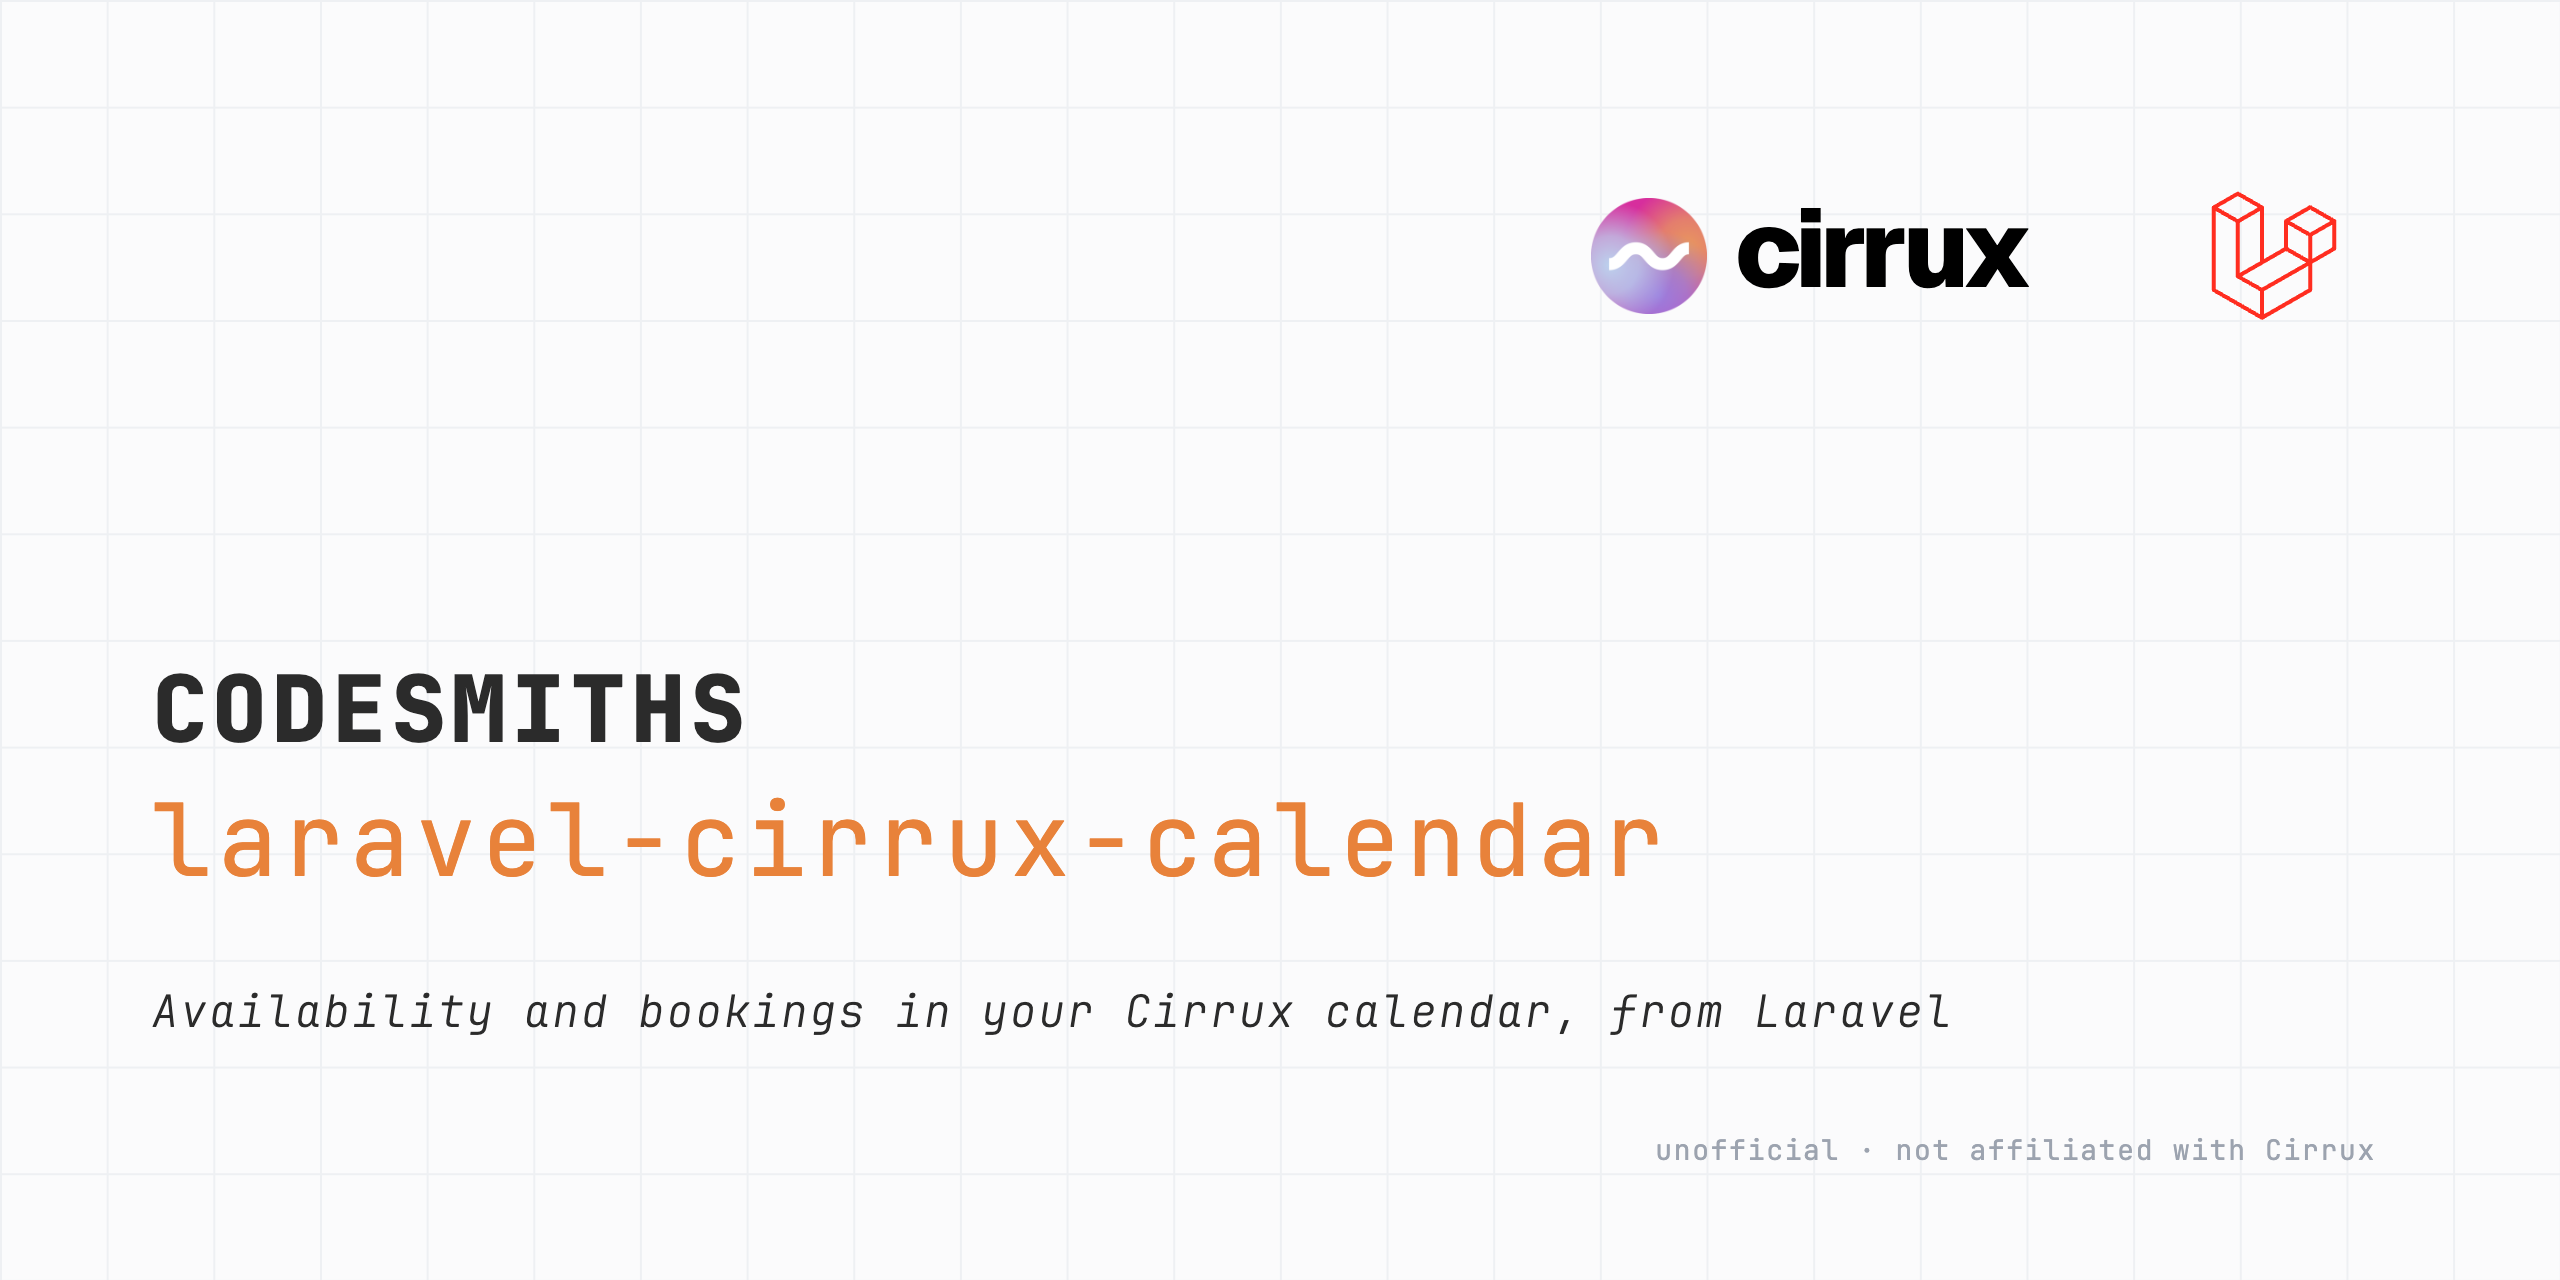
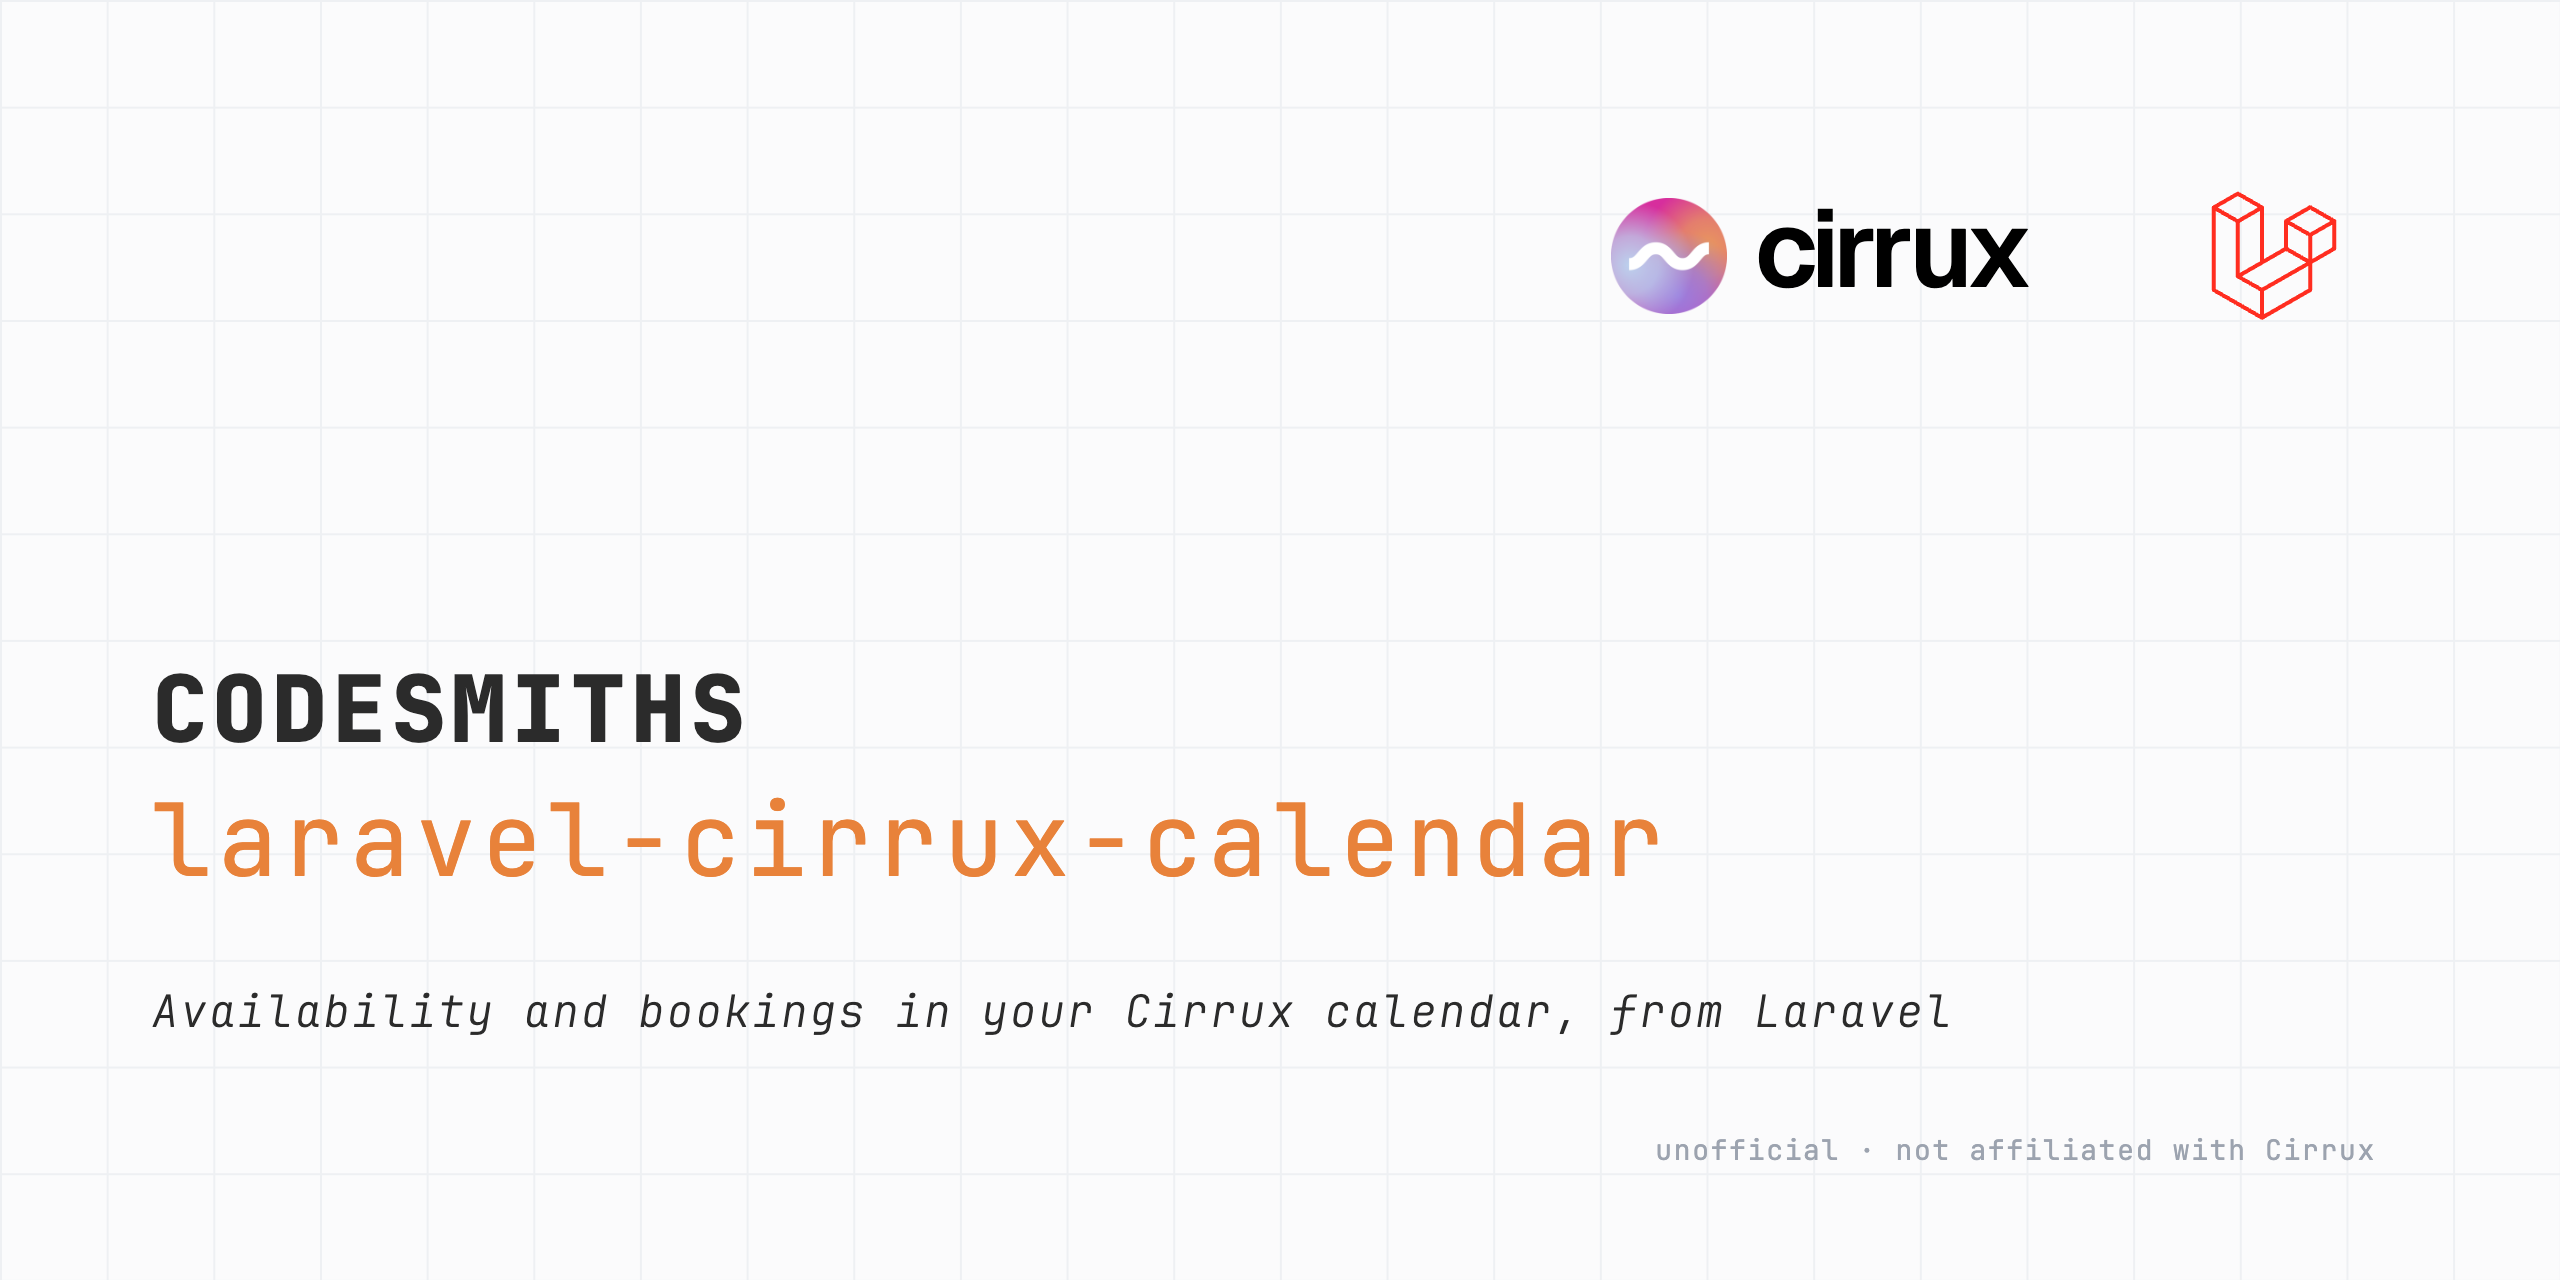
Match the Cirrux wordmark weight to cirrux.co

Changed region(s): [[0.625, 0.1562, 0.7812, 0.25]]

diff --git a/art/og-image.html b/art/og-image.html
@@ -5,7 +5,7 @@
   of the service and Laravel top right.
 
   Logos: art/logos/cirrux-icon.png (the Cirrux favicon, cirrux.co) with the "cirrux" wordmark in
-  Geist extrabold as on cirrux.co, and art/logos/laravel-mark.svg (github.com/laravel/art).
+  Geist as on cirrux.co (SemiBold asked as extrabold, so the browser emboldens it the same way), and art/logos/laravel-mark.svg (github.com/laravel/art).
   The package is unofficial; the card says so.
 
   Regenerate (renders at 2x, 2560x1280; needs JetBrains Mono installed and network for Geist):
@@ -19,8 +19,8 @@
 <style>
   @font-face {
     font-family: "Geist";
-    src: url("https://cdn.jsdelivr.net/npm/geist@1.3.1/dist/fonts/geist-sans/Geist-Black.woff2") format("woff2");
-    font-weight: 800;
+    src: url("https://cdn.jsdelivr.net/npm/geist@1.3.1/dist/fonts/geist-sans/Geist-SemiBold.woff2") format("woff2");
+    font-weight: 600;
   }
   * { margin: 0; padding: 0; box-sizing: border-box; }
   html, body { width: 1280px; height: 640px; overflow: hidden; }
